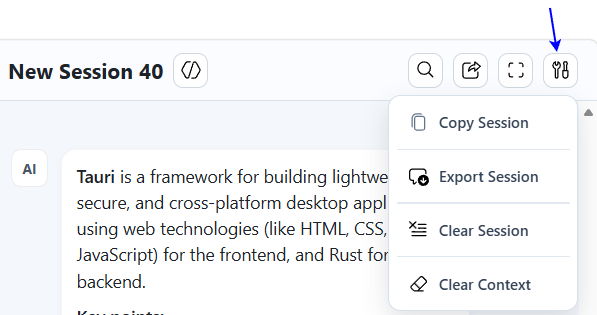
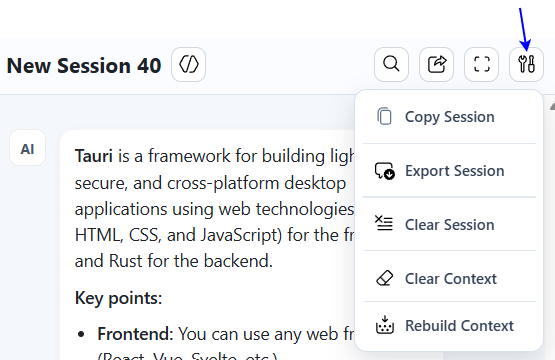
opt: add "rebuild context" in readme.md

diff --git a/README.md b/README.md
@@ -243,6 +243,7 @@ sequenceDiagram
 | Export Session  | Export the current session conversation and metadata as a Markdown file for backup, rebuild, review, or transfer.|
 | Clear Session   | Clear the current session conversation, metadata, and context.|
 | Clear Context   | Clear only the current session context while keeping messages intact.|
+| Rebuild Context | Clear and then rebuild the current session context using all existing session messages, while preserving the visible conversation state intact. |
 | Back To Session | Close the summary dialog and return to the current session header.|
 | Summarize Session Messages | Generate a concise summary of the current session to surface key topics and critical points, removing redundant noise.|
 | Open Summary in Mini Window | Open summary results in a compact mini window.|
@@ -284,7 +285,7 @@ Access the web hub to use Copilot through a session-oriented workflow.
 |Manage Session Results|Click buttons in [`Session Summary Dialog`](#current-session-session-summary-dialog)|
 |Clear Session Conversation and Context|Click [`Clear Session`](#current-session-more-actions)|
 |Clear Only Session Context|Click [`Clear Context`](#current-session-more-actions)|
-|Rebuild Session Context|Click [`Rebuild Context`](#current-session-more-actions) to rebuild backend context from all current session messages while keeping the visible conversation unchanged.|
+|Rebuild Session Context|Click [`Rebuild Context`](#current-session-more-actions)|
 
 ### 2. Conversation Operations
 